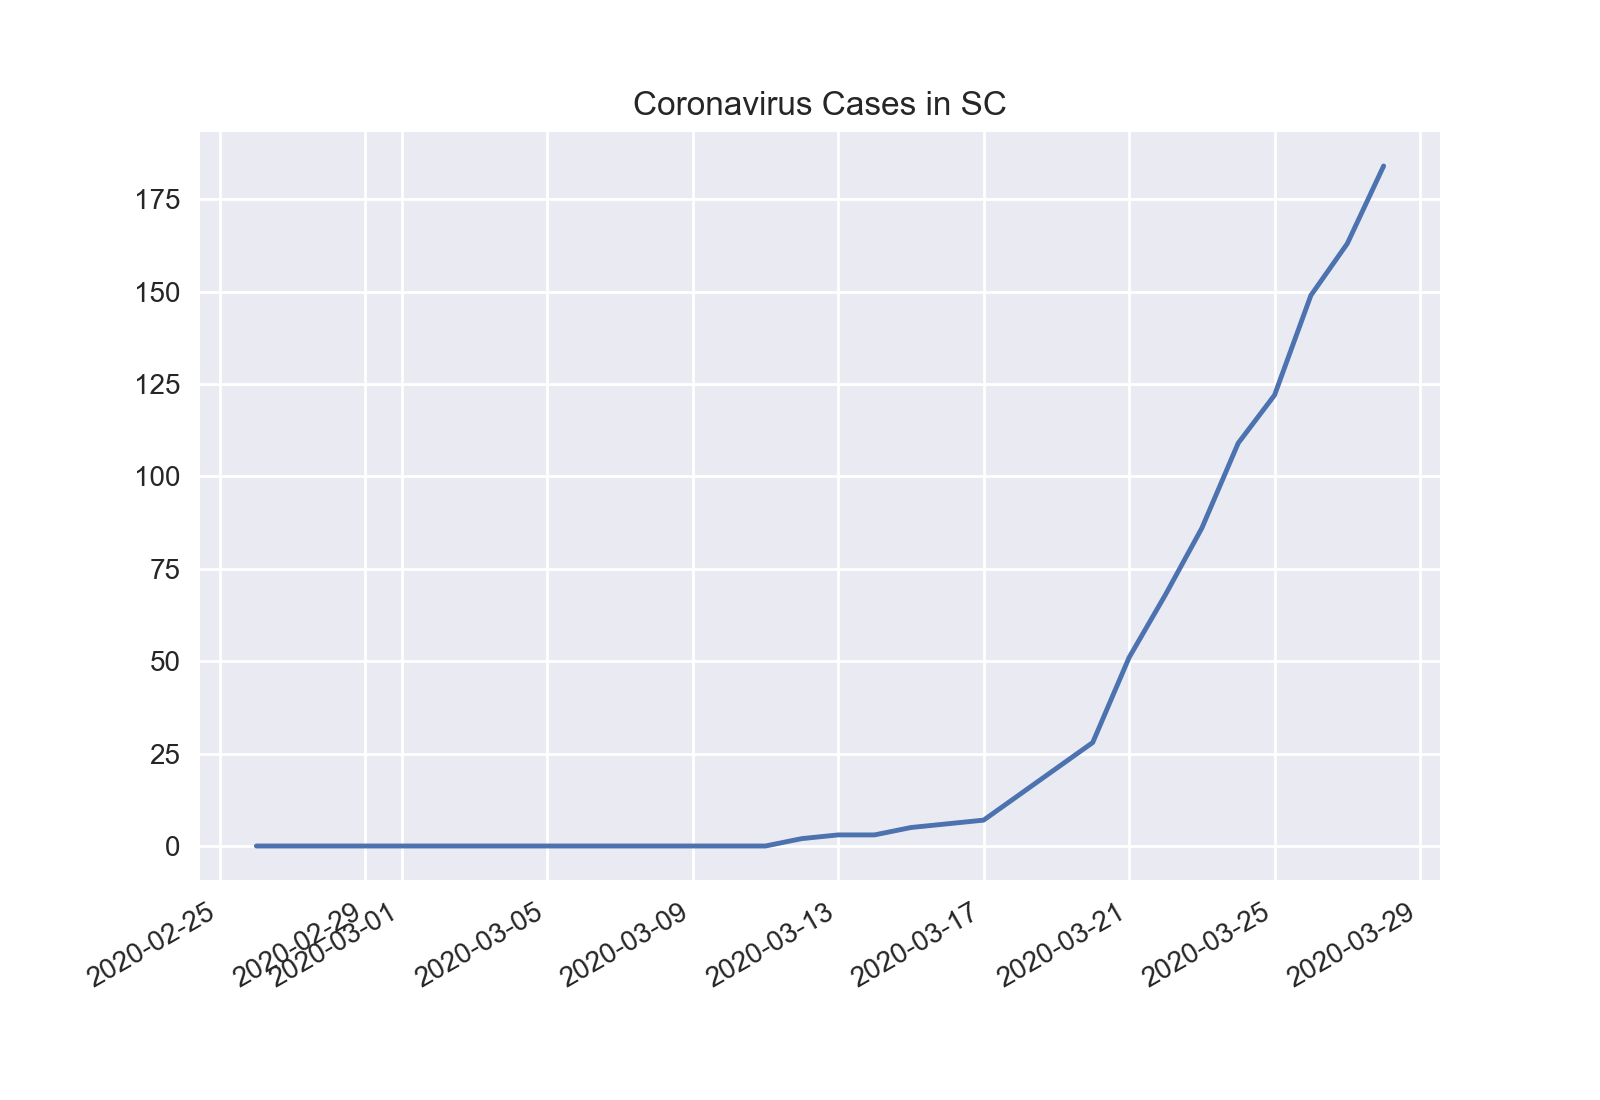
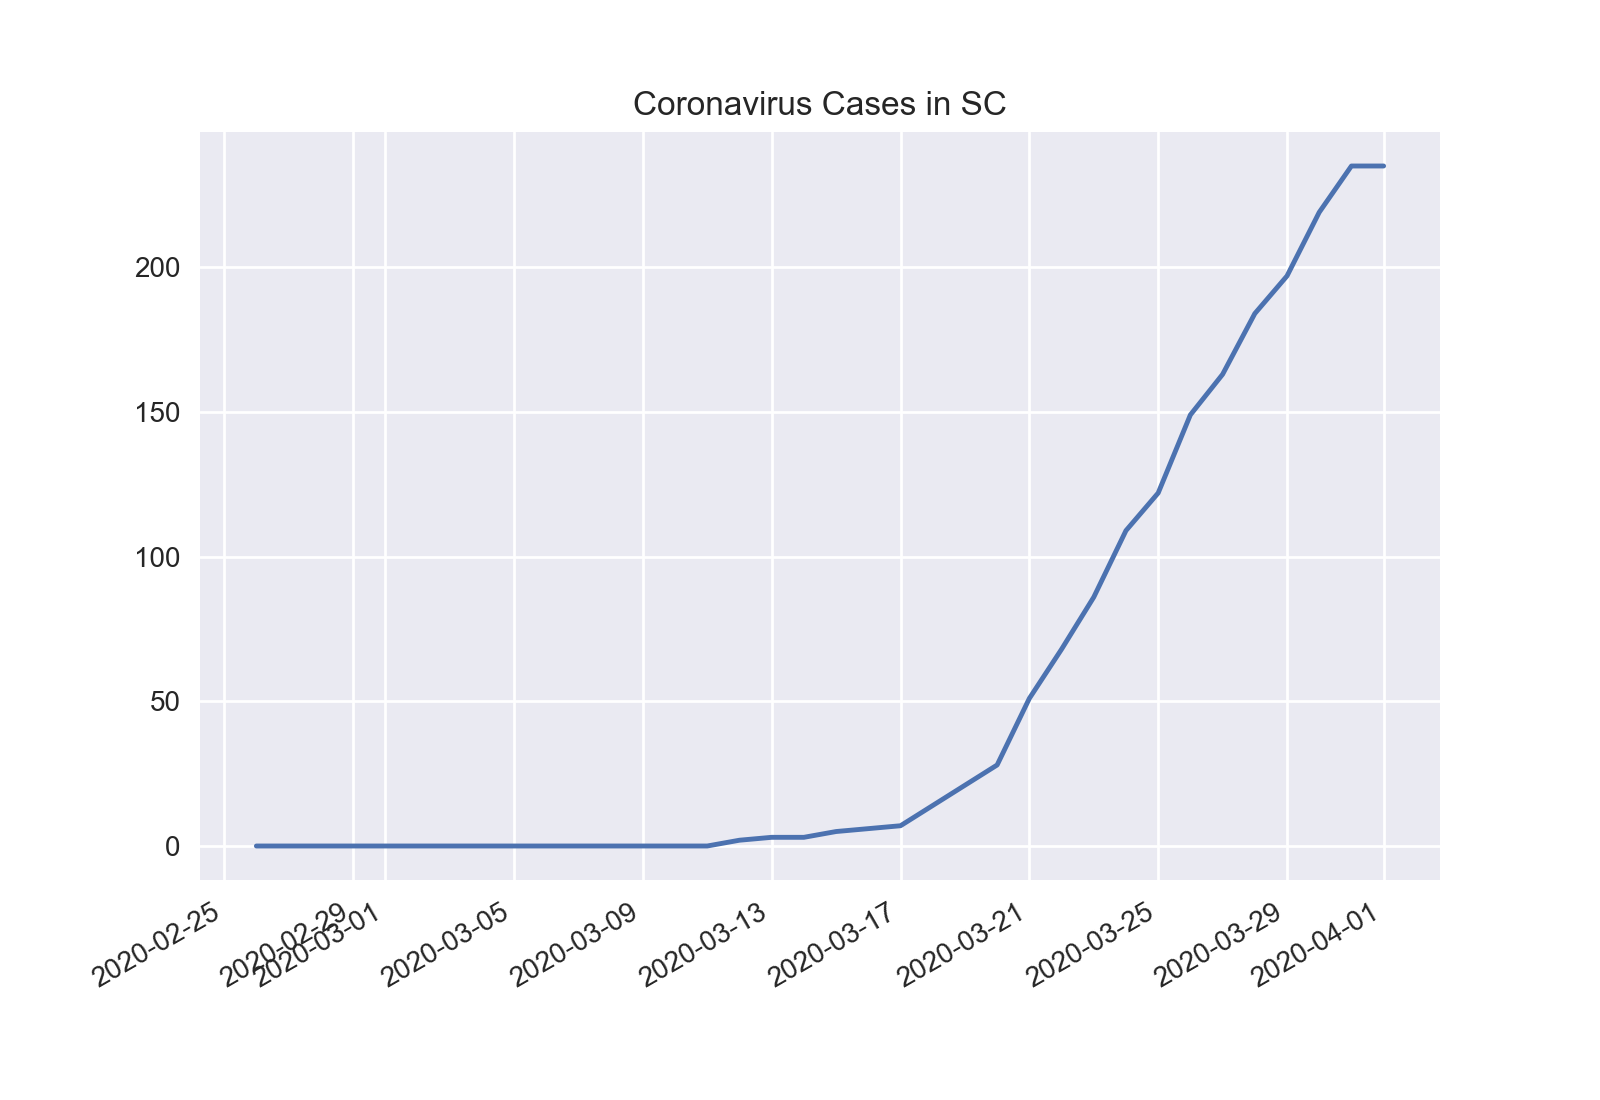
Updating cases until April 1st 6pm, generated images from CORONA_DEATHS sheet

diff --git a/image_by_state.py b/image_by_state.py
@@ -29,7 +29,7 @@ datas['total'] = datas.sum(axis=1)
 columns = columns[1:]
 columns.append('total')
 
-plt.style.use('seaborn') #.context('Solarize_Light2')
+plt.style.use('seaborn')
 
 # Matplotlib formatting to put the dates on the X axis
 plt.gca().xaxis.set_major_formatter(mdates.DateFormatter('%d/%m/%Y'))
